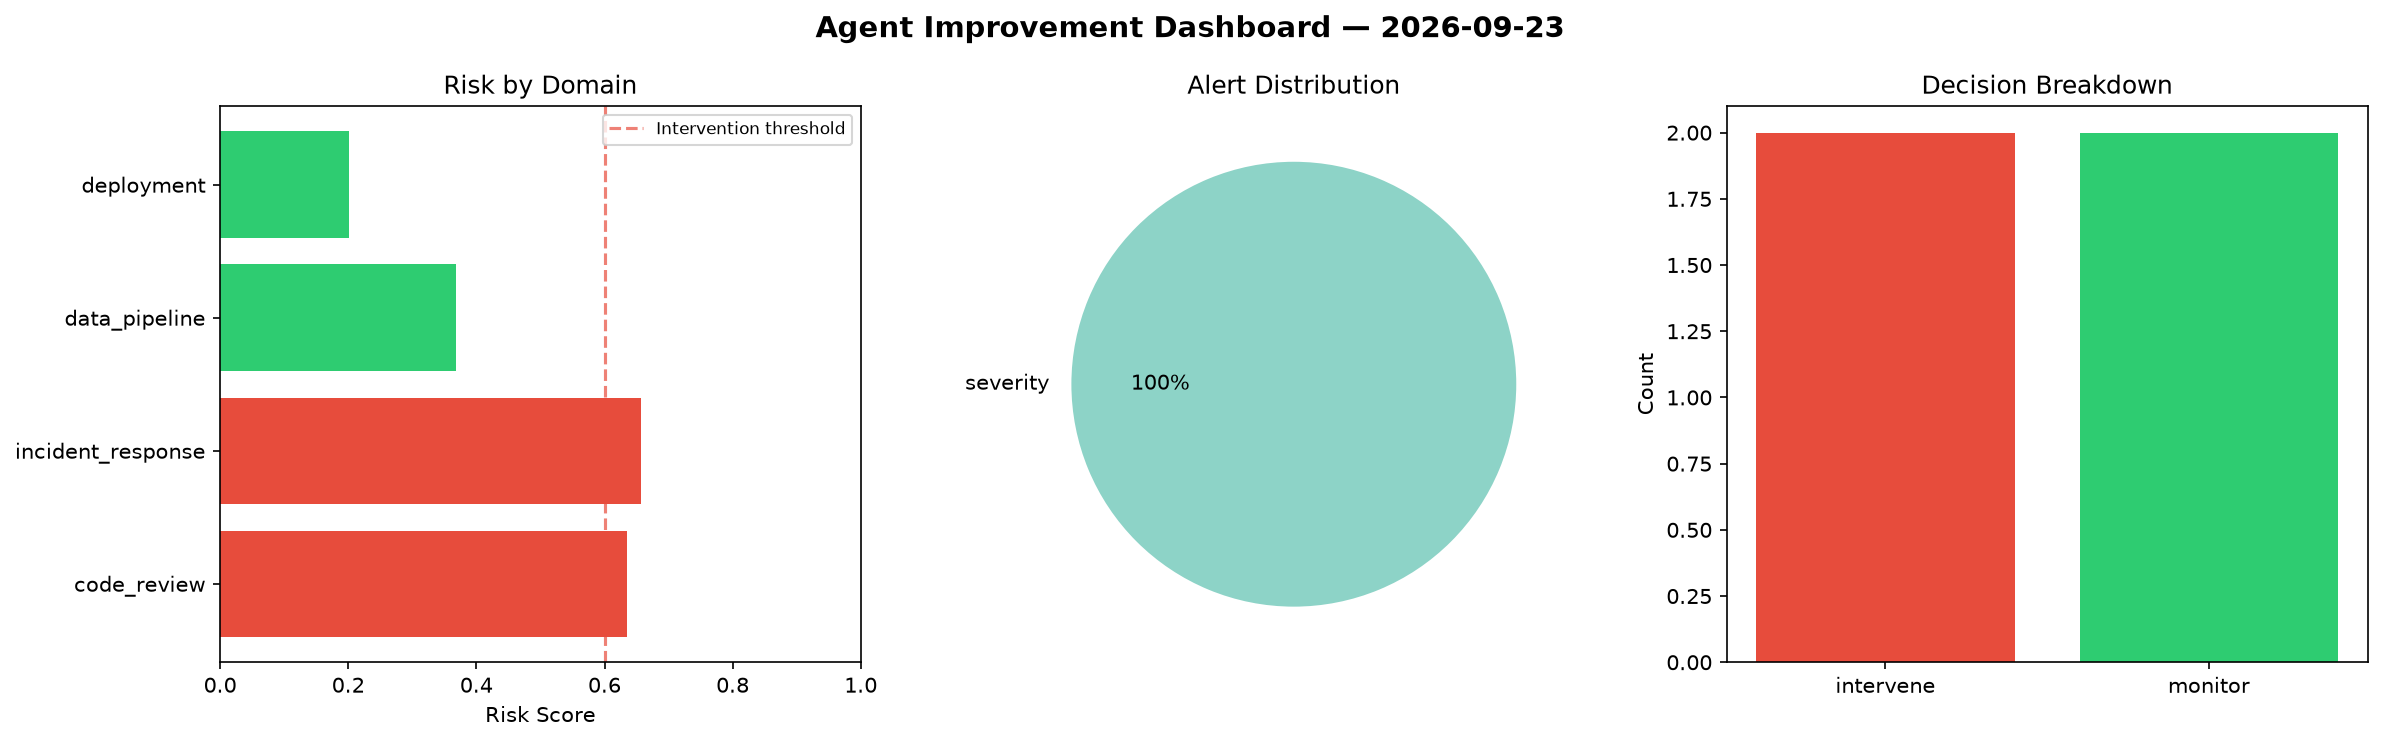
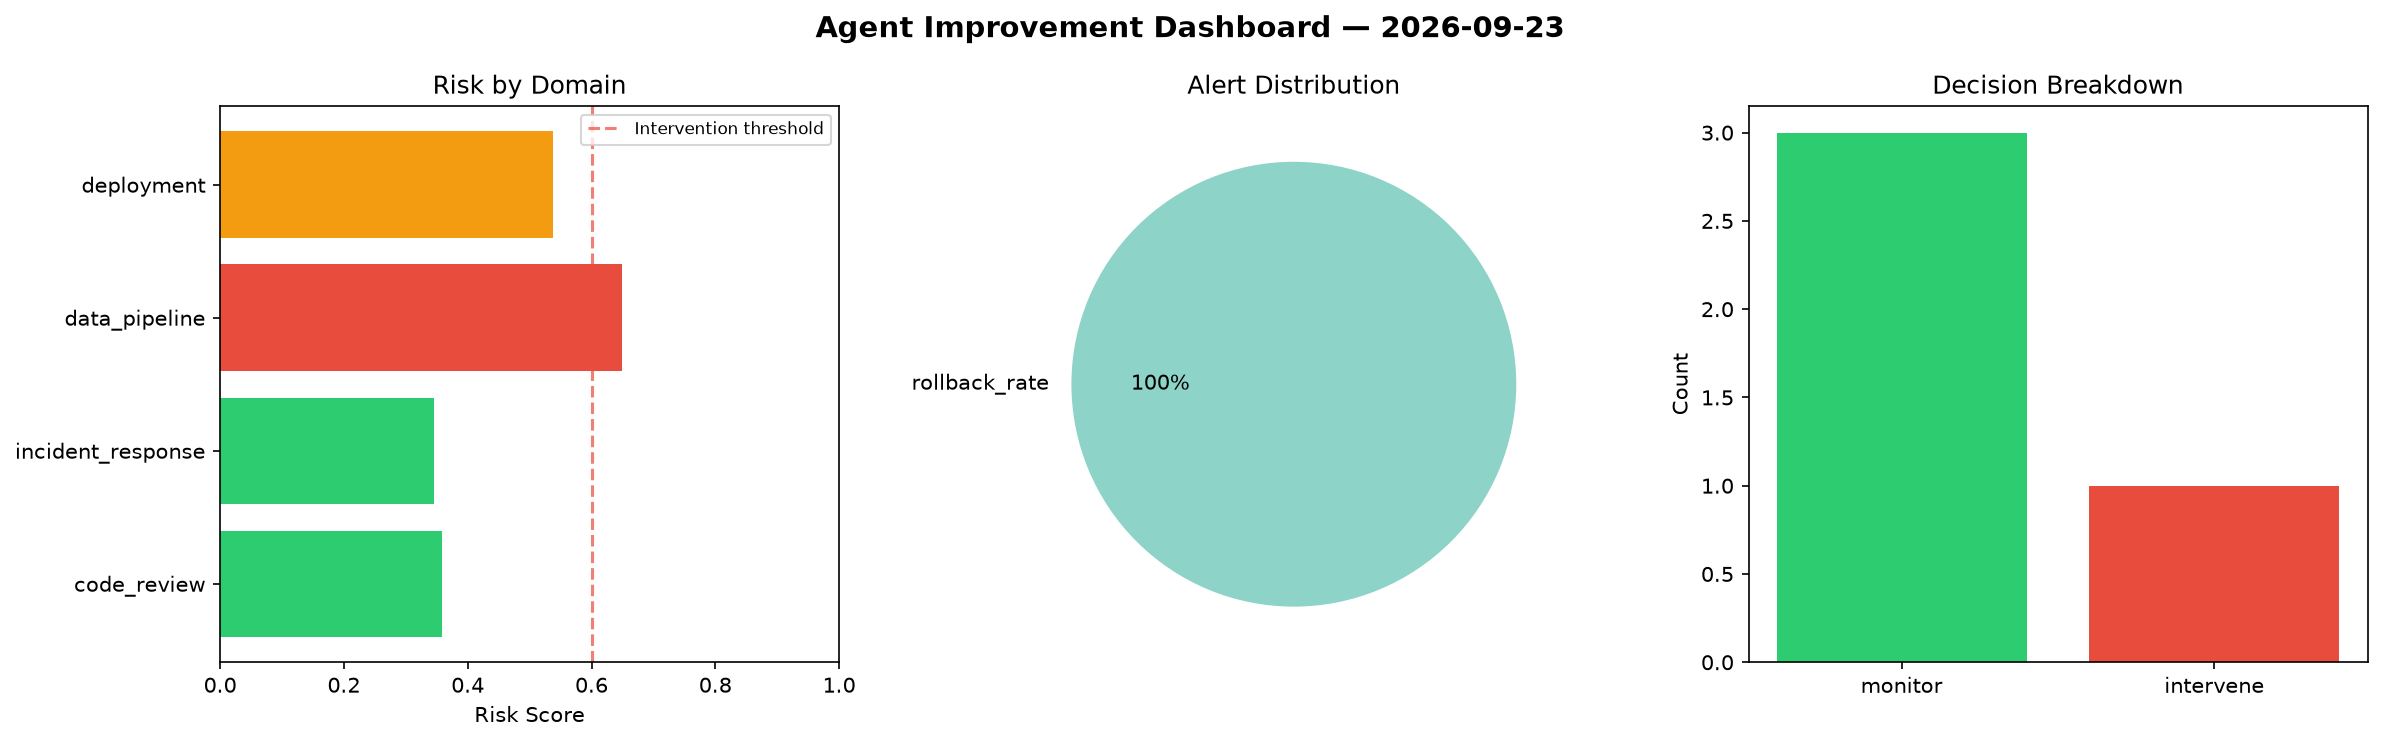
agent-improvement: daily cycle 2026-09-23T13:38

diff --git a/logs/2026-09-23.md b/logs/2026-09-23.md
@@ -1,6 +1,6 @@
 # Agent Improvement Report — 2026-09-23
 
-**Cycle ID:** `31ed9d22` | **Avg Risk:** 0.4651 | **Interventions:** 2/4
+**Cycle ID:** `c43e5005` | **Avg Risk:** 0.4727 | **Interventions:** 1/4
 
 ![Dashboard](2026-09-23_dashboard.png)
 
@@ -10,18 +10,18 @@
 
 | Domain | Risk Score | Decision | Alerts |
 |--------|-----------|----------|--------|
-| code_review | 0.6351 | intervene | none |
-| incident_response | 0.6569 | intervene | severity |
-| data_pipeline | 0.3675 | monitor | none |
-| deployment | 0.201 | monitor | none |
+| code_review | 0.3591 | monitor | none |
+| incident_response | 0.3454 | monitor | none |
+| data_pipeline | 0.6486 | intervene | none |
+| deployment | 0.5375 | monitor | rollback_rate |
 
 ## Delta vs Yesterday
 
 | Domain | Today | Yesterday | Change |
 |--------|-------|-----------|--------|
-| code_review | 0.6351 | 0.6261 | 📈 1.4% |
-| incident_response | 0.6569 | 0.4691 | 📈 40.0% |
-| data_pipeline | 0.3675 | 0.5133 | 📉 -28.4% |
-| deployment | 0.201 | 0.7223 | 📉 -72.2% |
+| code_review | 0.3591 | 0.6261 | 📉 -42.6% |
+| incident_response | 0.3454 | 0.4691 | 📉 -26.4% |
+| data_pipeline | 0.6486 | 0.5133 | 📈 26.4% |
+| deployment | 0.5375 | 0.7223 | 📉 -25.6% |
 
-**Refinement:** `{'adjustment': 'maintain', 'trend': 'improving', 'window': 4}`
+**Refinement:** `{'adjustment': 'tighten_thresholds', 'trend': 'degrading', 'window': 4}`
